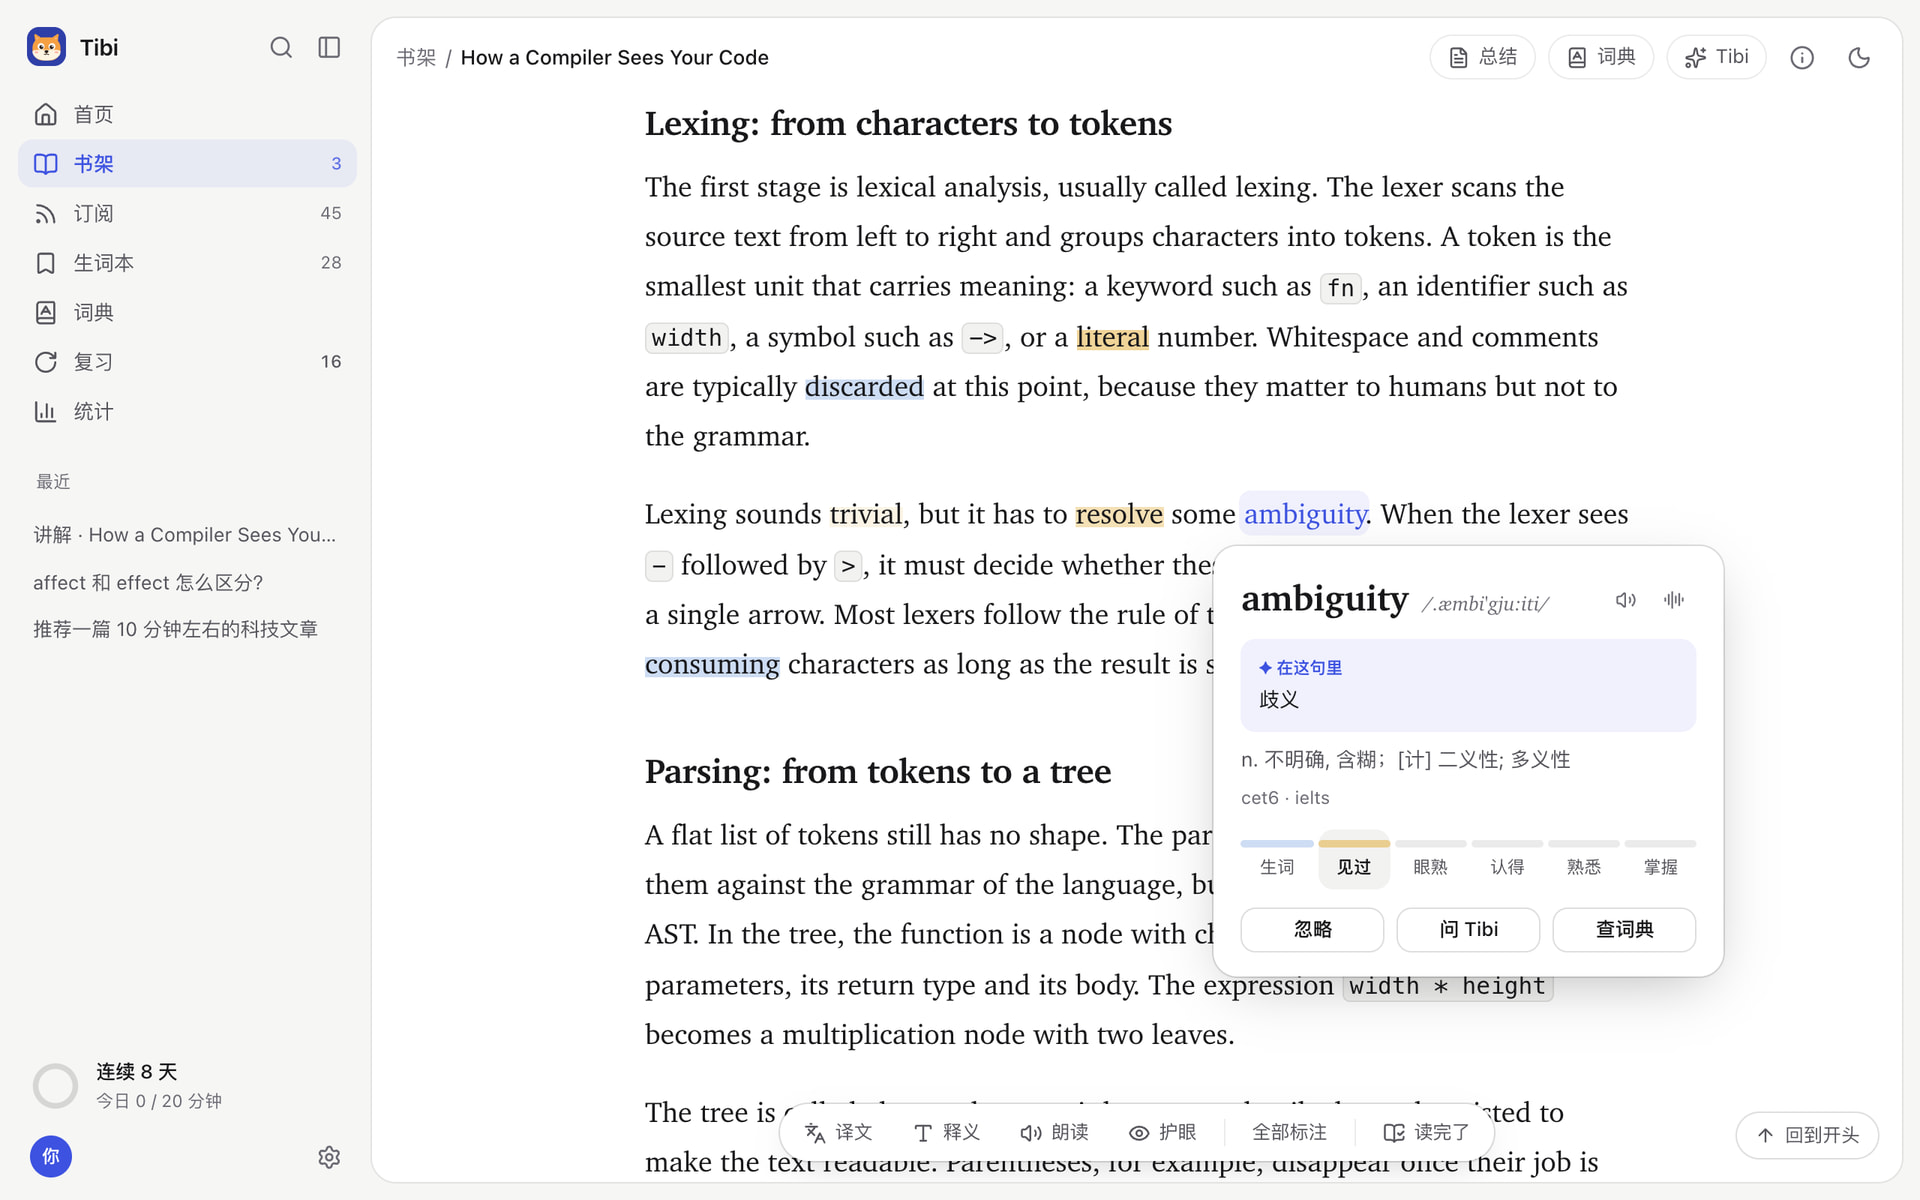
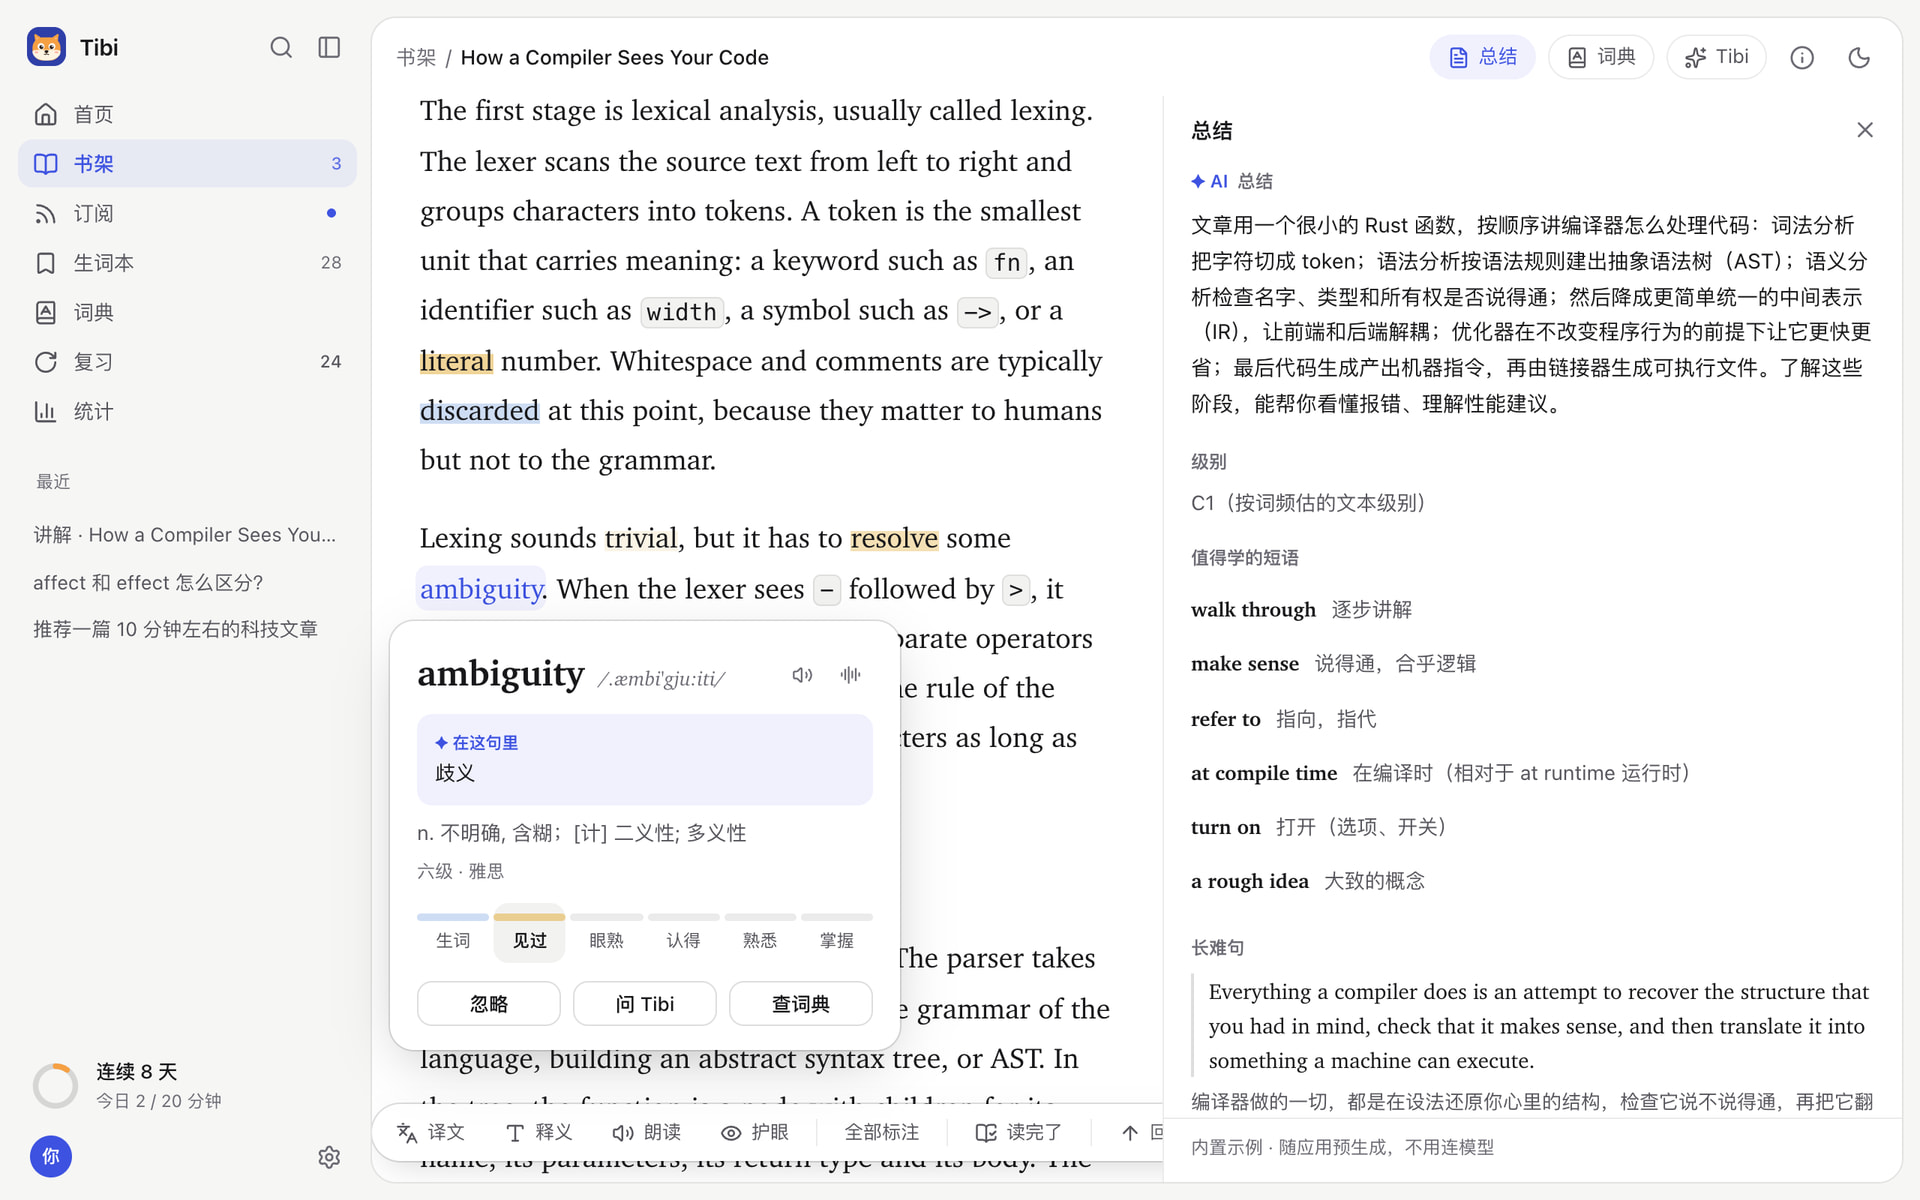
sites/tibi: 阅读截图同时打开总结面板
轮播第二张换成词卡和总结面板同框的阅读器，图注与 alt 同步；采集脚本加对应截图步骤。

diff --git a/sites/tibi/public/index.html b/sites/tibi/public/index.html
@@ -410,8 +410,8 @@
                   <figcaption><strong>01 · 首页</strong>粘贴网址或英文就能读，也能直接问 Tibi</figcaption>
                 </figure>
                 <figure class="shot swiper-slide">
-                  <a href="/img/screenshots/reader.jpg"><img src="/img/screenshots/reader.jpg" width="1920" height="1200" alt="提比阅读器：标过的生词着色，点词显示这句里的意思" loading="lazy" decoding="async"></a>
-                  <figcaption><strong>02 · 阅读</strong>只标你的生词，点词看这句里的意思</figcaption>
+                  <a href="/img/screenshots/reader.jpg"><img src="/img/screenshots/reader.jpg" width="1920" height="1200" alt="提比阅读器：标过的生词着色，点 ambiguity 显示这句里的意思；右侧是文章总结、值得学的短语和长难句" loading="lazy" decoding="async"></a>
+                  <figcaption><strong>02 · 阅读</strong>点词看这句里的意思，旁边就是总结、短语和长难句</figcaption>
                 </figure>
                 <figure class="shot swiper-slide">
                   <a href="/img/screenshots/chat.jpg"><img src="/img/screenshots/chat.jpg" width="1920" height="1200" alt="提比对话：近义词辨析卡和练习题卡" loading="lazy" decoding="async"></a>

diff --git a/sites/tibi/design.md b/sites/tibi/design.md
@@ -5,7 +5,7 @@
 - 品牌固定为 **Tibi 提比**，定位为「AI first的英语学习全能助手」。首屏主标题保留两个逻辑行：「AI first的英语学习全能助手，」与「陪你英语阅读从入门到精通」，以听、说、读、写、词、练六个单字标签说明学习范围；标题与 OG 标题同步定位，description 概括导入、点词、AI 学伴、原句复习和本地优先。主文案为「读喜欢的英文，点词就懂、有问就答，复习用的是你读过的原句」。
 - 页面顺序为：hero 顶部狐狸装饰 → 主文案（H1、引导语、学习标签、下载入口、平台信息）→ `#shots` 六张完整应用截图轮播 → 无需账号／本地优先／MIT 开源价值卡片 → `#features` 功能（四个重点 → 「还有这些」六张小卡 → 四项纯文字能力）→ 隐私说明 → 下载与安装说明。首屏次要按钮为「看看界面」，指向 `#shots`。页头导航为界面、功能、AI 学伴（`#companion`，功能区里的第三个重点）、隐私、源码和下载。
 - **吉祥物仅作装饰配图，不设介绍文案/专区**。不设置角色故事、贴纸展区或 `#mascot`，导航无吉祥物入口；所有标题与文案围绕英语学习、AI 陪伴、隐私和下载。保留页头 `logo.svg`，产品 UI 截图仍是主要展示依据。
-- `#shots` 轮播依次为 home / reader / chat / feeds / review / stats，图注各一句：首页导入与提问、只标你的生词并点词看语境释义、对话里的辨析与练习卡、订阅自动送来并标难度、复习面板、统计与洞察。分享预览继续使用绝对地址 `https://tibi.ferecord.com/img/screenshots/home.jpg`。不增加虚构商店窗口、评价、用户数或媒体背书。
+- `#shots` 轮播依次为 home / reader / chat / feeds / review / stats，图注各一句：首页导入与提问、阅读器里点词看语境释义、右侧同时开着总结面板、对话里的辨析与练习卡、订阅自动送来并标难度、复习面板、统计与洞察。分享预览继续使用绝对地址 `https://tibi.ferecord.com/img/screenshots/home.jpg`。不增加虚构商店窗口、评价、用户数或媒体背书。
 - 功能区以「从读到懂，从懂到记住」为题，按学习顺序突出四个重点：01 读（导入各种材料与订阅，News in Levels 三档难度）、02 读懂（只标你标过的词，词卡先给这句里的意思）、03 AI 学伴（对话卡片、读到哪问到哪、写入前按权限先问且可撤销）、04 记住（FSRS 排期、原句出题、练习与造句批改）。每个重点为大图加一句说明和三条要点，桌面左右交替，900px 以下单列且文字在图上方；AI 学伴一段用淡靛蓝到杏色的底色区分。「还有这些」六张卡为：在阅读器里问 Tibi、导入就有总结、帮你找文章、听一句跟一句（朗读）、离线词典、看得见进步（统计）；最后一行纯文字列出浏览器剪藏、生词导出、接入其他 AI 工具（MCP）、多设备同步（文件夹或 WebDAV）。
 - 能力边界依据只读产品仓库 `README.md`、`docs/guide/README.md` 第 4／6／7／8 节：阅读、词汇、AI 理解与复习是当前基础；「听」来自原文朗读、调速、单句循环和听写，「说」指听后自行跟读模仿，「写」指造句练习及连接模型后的批改。AI 学伴通过文字对话讲解用法、辅助表达与练习，不宣称实时语音对话、发音评分或独立作文评测系统。连接模型的条件与可能产生的服务商费用仅在下载区 details 集中说明一次。
 - 「无需账号、本地优先、MIT 开源」依据产品仓库 README、PRIVACY 和使用指南；隐私卡片保留 AI 内容发给所选模型服务商的说明。平台信息紧邻 CTA；系统版本、安装方式、模型费用、联网与同步说明集中在下载区 details。
@@ -22,7 +22,7 @@
 
 | 素材 | 画面 | 输出 |
 | --- | --- | --- |
-| screenshots/home、reader、chat、feeds、review、stats | 首页、ambiguity 词卡、affect／effect 辨析与出题、News in Levels 订阅、复习面板、统计 | 1920×1200 JPEG |
+| screenshots/home、reader、chat、feeds、review、stats | 首页、ambiguity 词卡加总结面板、affect／effect 辨析与出题、News in Levels 订阅、复习面板、统计 | 1920×1200 JPEG |
 | features/feeds、lookup、chat、review | 四个重点大图：订阅分档、词卡、对话卡片、原句选义 | 1600×1000 / 800×500 WebP |
 | features/ask、summary、scout、aloud、dict、stats | 阅读器侧栏问答、总结面板、找文章卡、朗读句级高亮、离线词典、统计洞察 | 1200×750 / 600×375 WebP |
 
@@ -79,6 +79,7 @@ TIBI_CAPTURE_DEPS=/path/to/node_modules node sites/tibi/scripts/capture-ui.cjs
 
 ## 验证记录
 
+- 阅读截图加总结面板（2026-11-05）：轮播第二张换成词卡和总结面板同时打开的阅读器（`reader-full`），图注与 alt 同步；其余图片不变。
 - 按当前功能重构与重拍（2026-11-04）：功能区改为四个重点、六张小卡和四项文字能力，导航加「AI 学伴」，轮播改为六张真实界面截图；删除原型来源的 ai／review／progress 图、import／mark 图与 words.jpg，换成本轮 26 张新图。Chrome 实测 320、360、390、560、768、900、1280、1440px 无横向溢出、无坏图、无脚本错误；Swiper 六个分页点、前后按钮到末张禁用正常，手机宽度下分页点单独一行。目视核对 1440px 与 390px 整页和全部裁切图。`capture-ui.cjs` 已在演示环境完整跑通一次并生成本轮发布图。本轮未提交、推送或部署。
 - H1 视觉层级与卡片标签清理（2026-11-01）：删除 04／05／06 卡片的原型标签及无引用样式，分类行只保留序号与名称。Chrome 实测 320、360、390、560、768、900、1280、1440px 无横向溢出；桌面引题／主标题为 30／64px，手机为 17／32px，320px 下两者放大至两倍仍无溢出。目视对比 1440px 修改前后及 320／390px 新版，确认陶土色主标题、粗细与大小对比明显，手机在两个短句之间换行。狐狸仍置顶，SVG 动画正常，无页面脚本错误；文案完整，三个分类标题正确，标签和死样式检索无残留，`git diff --check` 通过。本轮仅改本站 HTML 和设计说明。
 - 首屏精简与标题排版（2026-11-01）：移除 hero 产品截图、相关 CSS 和显现选择器，狐狸仍为首元素，主文案之后直接进入 `#shots`。Chrome 实测 320、360、390、560、768、900、1280、1440px，标题原文不变（`AI first` 间为空格的不换行形式），默认均显示两行，无横向溢出；320px 标题放大到 40px 时可自然换行。`#shots` 与修改前逐字节一致，仍按 home／reader／words 排列；交互脚本仅删除对应显现选择器。320px 无 JS 回退通过，无页面脚本错误；目视检查 320／390／1440px，脚本语法与 diff 空白检查通过。报告：`/tmp/tibi-hero-trim-report.md`；未提交、推送或部署。
